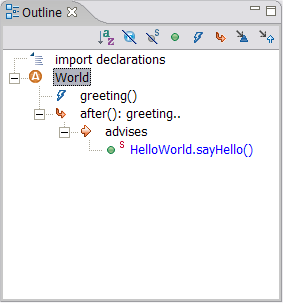
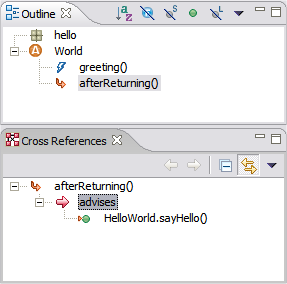
Sian's updated AJDT user guide

diff --git a/org.eclipse.ajdt.ui/doc/AJDTug/ajdt-doc.htm b/org.eclipse.ajdt.ui/doc/AJDTug/ajdt-doc.htm
@@ -372,7 +372,7 @@ EN-GB'> Colyer, August 2003.<o:p></o:p></span></i></p>
 <p class=MsoNormal><st1:City><st1:place><i style='mso-bidi-font-style:normal'><span
   lang=EN-GB style='mso-ansi-language:EN-GB'>Sian</span></i></st1:place></st1:City><i
 style='mso-bidi-font-style:normal'><span lang=EN-GB style='mso-ansi-language:
-EN-GB'> January, updated June 2004, October 2004.<o:p></o:p></span></i></p>
+EN-GB'> January, last updated December 2004.<o:p></o:p></span></i></p>
 
 <p class=MsoNormal><span lang=EN-GB style='mso-ansi-language:EN-GB'><o:p>&nbsp;</o:p></span></p>
 
@@ -430,19 +430,42 @@ src="ajdt-doc_files/editor.png" v:shapes="_x0000_i1025"><![endif]><o:p></o:p></s
 
 <ul style='margin-top:0cm' type=disc>
  <li class=MsoNormal style='mso-list:l11 level1 lfo3;tab-stops:list 36.0pt'><span
-     lang=EN-GB style='mso-ansi-language:EN-GB'>Outline view showing structural
-     members and crosscutting relationships (e.g. from an advice declaration to
-     the places it advises).<o:p></o:p></span></li>
+     lang=EN-GB style='mso-ansi-language:EN-GB'>Outline view support, which shows structural
+     members of aspects and decorates advised members with an orange arrow.<o:p></o:p></span></li>
 </ul>
 
 <p class=MsoNormal><span lang=EN-GB style='mso-ansi-language:EN-GB'><o:p>&nbsp;</o:p></span></p>
 
 <p class=MsoNormal style='margin-left:36.0pt'><span lang=EN-GB
 style='mso-ansi-language:EN-GB'><!--[if gte vml 1]><v:shape id="_x0000_i1026"
- type="#_x0000_t75" style='width:323;height:368'>
+ type="#_x0000_t75" style='width:220;height:263'>
  <v:imagedata src="ajdt-doc_files/outline.png" o:title="ajdt-outline"/>
-</v:shape><![endif]--><![if !vml]><img border=0 width=323 height=368
-src="ajdt-doc_files/outline.png" v:shapes="_x0000_i1026"><![endif]><o:p></o:p></span></p>
+</v:shape><![endif]--><![if !vml]><img border=0 width=220 height=263
+src="ajdt-doc_files/outline.png" v:shapes="_x0000_i1026"><![endif]><o:p></o:p>
+
+<!--[if gte vml 1]><v:shape id="_x0000_i1026"
+ type="#_x0000_t75" style='width:220;height:263'>
+ <v:imagedata src="ajdt-doc_files/outline2.png" o:title="ajdt-outline"/>
+</v:shape><![endif]--><![if !vml]><img border=0 width=220 height=263
+src="ajdt-doc_files/outline2.png" v:shapes="_x0000_i1026"><![endif]><o:p></o:p></span></p>
+
+<p class=MsoNormal style='margin-left:36.0pt'><span lang=EN-GB
+style='mso-ansi-language:EN-GB'><o:p>&nbsp;</o:p></span></p>
+
+<ul style='margin-top:0cm' type=disc>
+ <li class=MsoNormal style='mso-list:l11 level1 lfo3;tab-stops:list 36.0pt'><span
+     lang=EN-GB style='mso-ansi-language:EN-GB'>Cross References view that shows relationships
+     to and from the selected member.  Double clicking on one of the endpoints opens
+     the relevant source in the editor.<o:p></o:p></span></li>
+</ul>
+
+<p class=MsoNormal style='margin-left:36.0pt'><span lang=EN-GB
+style='mso-ansi-language:EN-GB'><!--[if gte vml 1]><v:shape id="_x0000_i1027"
+ type="#_x0000_t75" style='width:333;height:158'>
+ <v:imagedata src="ajdt-doc_files/xrefs.png" o:title="ajdt-new-project-wizard"/>
+</v:shape><![endif]--><![if !vml]><img border=0 width=333 height=158
+src="ajdt-doc_files/xrefs.png" v:shapes="_x0000_i1027"><![endif]><o:p></o:p></span></p>
+
 
 <p class=MsoNormal style='margin-left:36.0pt'><span lang=EN-GB
 style='mso-ansi-language:EN-GB'><o:p>&nbsp;</o:p></span></p>

diff --git a/org.eclipse.ajdt.ui/doc/AJDTug/ajdt-incremental.html b/org.eclipse.ajdt.ui/doc/AJDTug/ajdt-incremental.html
@@ -96,14 +96,14 @@ Compilation<o:p></o:p></span></h1>
 <p class=MsoNormal><span lang=EN-GB style='mso-ansi-language:EN-GB'><o:p>&nbsp;</o:p></span></p>
 
 <p class=MsoNormal><span lang=EN-GB style='mso-ansi-language:EN-GB'>Incremental
-compilation is specified on a per-project basis.  To switch a
-project into incremental compilation mode:<o:p></o:p></span></p>
+compilation can be specified on a global or per-project basis.  To switch all
+projects into incremental compilation mode:<o:p></o:p></span></p>
 
 <p class=MsoNormal><span lang=EN-GB style='mso-ansi-language:EN-GB'><o:p>&nbsp;</o:p></span></p>
 
-<p class=MsoNormal><span lang=EN-GB style='mso-ansi-language:EN-GB'>Right click
-on the project then click "Properties".  Selec "AspectJ" in the left hand
-menu, then check the "Use incremental compilation" checkbox.<o:p></o:p></span></p>
+<p class=MsoNormal><span lang=EN-GB style='mso-ansi-language:EN-GB'>Click
+'Window' > 'Preferences', expand the 'AspectJ' node and select 'Compiler'.
+Click on the 'Other' tab and then check the "Use incremental compilation" checkbox.<o:p></o:p></span></p>
 
 <p class=MsoNormal><span lang=EN-GB style='mso-ansi-language:EN-GB'><o:p>&nbsp;</o:p></span></p>
 
@@ -127,13 +127,20 @@ menu, then check the "Use incremental compilation" checkbox.<o:p></o:p></span></
  </v:formulas>
  <v:path o:extrusionok="f" gradientshapeok="t" o:connecttype="rect"/>
  <o:lock v:ext="edit" aspectratio="t"/>
-</v:shapetype><v:shape id="_x0000_i1025" type="#_x0000_t75" style='width:732;
- height:515'>
+</v:shapetype><v:shape id="_x0000_i1025" type="#_x0000_t75" style='width:670;
+ height:454'>
  <v:imagedata src="ajdt-incremental_files/properties.png" o:title="ajdt-suppress-auto"/>
-</v:shape><![endif]--><![if !vml]><img width=732 height=515
+</v:shape><![endif]--><![if !vml]><img width=670 height=454
 src="ajdt-incremental_files/properties.png" v:shapes="_x0000_i1025"><![endif]><o:p></o:p></span></p>
 
 <p class=MsoNormal><span lang=EN-GB style='mso-ansi-language:EN-GB'><o:p>&nbsp;</o:p></span></p>
+
+<p class=MsoNormal><span lang=EN-GB style='mso-ansi-language:EN-GB'><o:p>&nbsp;</o:p></span></p>
+
+<p class=MsoNormal><span lang=EN-GB style='mso-ansi-language:EN-GB'>To switch
+an individual project in or out of incremental mode, right click on the project, then select
+'AspectJ Compiler'. Click on the 'Other' tab and then check or uncheck the "Use incremental compilation" checkbox.<o:p></o:p></span></p>
+
 
 </div>
 

diff --git a/org.eclipse.ajdt.ui/doc/AJDTug/ajdt-properties.html b/org.eclipse.ajdt.ui/doc/AJDTug/ajdt-properties.html
@@ -160,10 +160,10 @@ the settings of the AspectJ compiler for an individual project.<o:p></o:p></span
  </v:formulas>
  <v:path o:extrusionok="f" gradientshapeok="t" o:connecttype="rect"/>
  <o:lock v:ext="edit" aspectratio="t"/>
-</v:shapetype><v:shape id="_x0000_i1025" type="#_x0000_t75" style='width:733;
- height:617'>
+</v:shapetype><v:shape id="_x0000_i1025" type="#_x0000_t75" style='width:629;
+ height:596'>
  <v:imagedata src="ajdt-properties_files/aspectj_java_compiler_properties.png" o:title="ajdt-jdt-compiler-options"/>
-</v:shape><![endif]--><![if !vml]><img width=733 height=617
+</v:shape><![endif]--><![if !vml]><img width=629 height=596
 src="ajdt-properties_files/java_compiler_properties.png" v:shapes="_x0000_i1025"><![endif]><o:p></o:p></span></p>
 
 <p class=MsoNormal><span lang=EN-GB style='mso-ansi-language:EN-GB'><o:p>&nbsp;</o:p></span></p>
@@ -177,9 +177,9 @@ project output directory).<o:p></o:p></span></p>
 <p class=MsoNormal><span lang=EN-GB style='mso-ansi-language:EN-GB'><o:p>&nbsp;</o:p></span></p>
 
 <p class=MsoNormal><span lang=EN-GB style='mso-ansi-language:EN-GB'><!--[if gte vml 1]><v:shape
- id="_x0000_i1026" type="#_x0000_t75" style='width:732;height:515'>
+ id="_x0000_i1026" type="#_x0000_t75" style='width:629;height:395'>
  <v:imagedata src="ajdt-properties_files/aspectj_properties.png" o:title="ajdt-properties"/>
-</v:shape><![endif]--><![if !vml]><img width=732 height=515
+</v:shape><![endif]--><![if !vml]><img width=629 height=395
 src="ajdt-properties_files/aspectj_properties.png" v:shapes="_x0000_i1026"><![endif]><o:p></o:p></span></p>
 
 <p class=MsoNormal><span lang=EN-GB style='mso-ansi-language:EN-GB'><o:p>&nbsp;</o:p></span></p>
